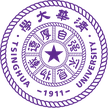
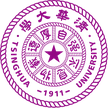
style: seals in school colours, wider left margin for the text column
- Seals now keep each school's own colours (Cornell red, Illinois blue,
  Tsinghua purple) instead of the page violet.
- The text column's left padding grows from 4rem to 6rem (3rem to
  4.75rem at mid widths) so the hanging seals sit clear of the rail.

Changed region(s): [[0.0, 0.0, 1.0, 1.0], [0.8056, 0.3056, 0.8611, 0.3611], [0.1389, 0.3056, 0.1944, 0.3611]]

diff --git a/style.css b/style.css
@@ -93,7 +93,7 @@ body {
 
 .main-content {
     grid-column: 3;
-    padding: 4.75rem 4rem 6rem;
+    padding: 4.75rem 4rem 6rem 6rem;   /* wide left margin: the seals hang in it, clear of the rail */
     min-width: 0;
 }
 
@@ -284,7 +284,7 @@ li::marker { color: #a4a3b8; }
 
 .entry + .entry { margin-top: 1.9rem; }
 
-/* Institution seals (Wikimedia Commons, public domain insignia) recoloured to the one violet,
+/* Institution seals (Wikimedia Commons, public domain insignia) in each school's own colours,
    hung in the left margin so the text column keeps its edge */
 .entry { position: relative; }
 
@@ -400,7 +400,7 @@ li::marker { color: #a4a3b8; }
 
 @media (max-width: 1100px) {
     :root { --rail: 320px; }
-    .main-content { padding: 4rem 3rem 5rem; }
+    .main-content { padding: 4rem 3rem 5rem 4.75rem; }
     .name { font-size: 2.7rem; }
     .links { gap: 0.4rem; }
     .seal { left: -2.6rem; width: 1.9rem; height: 1.9rem; }
